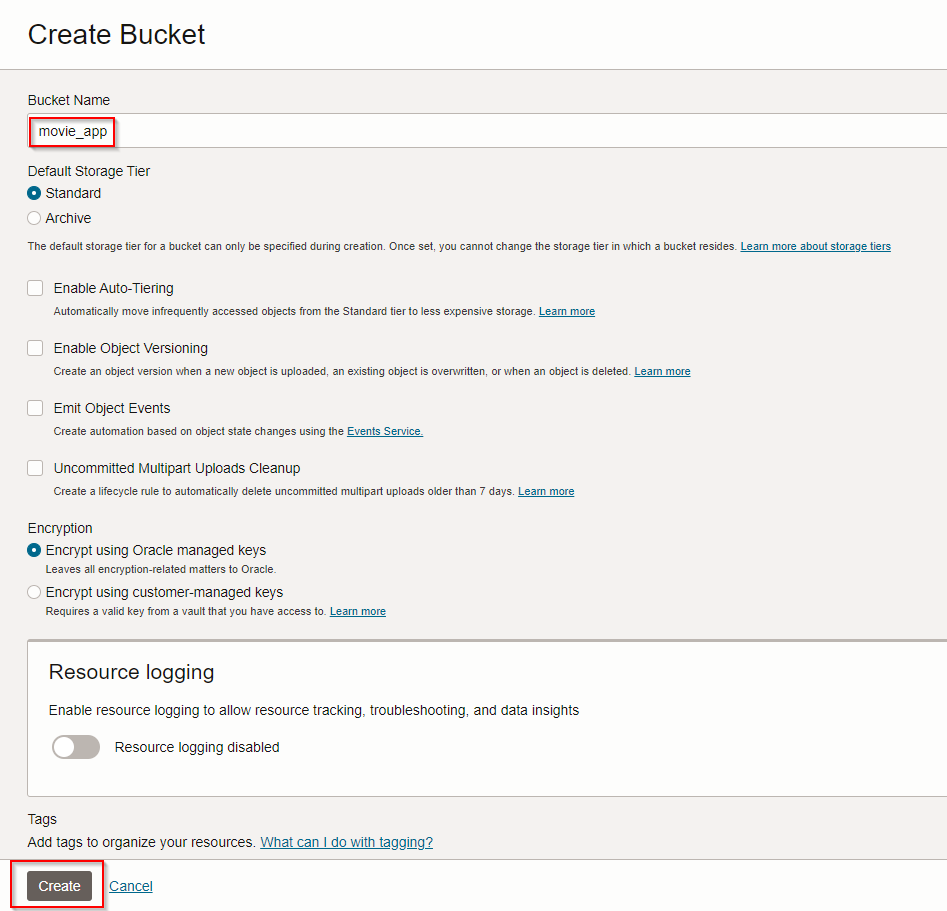
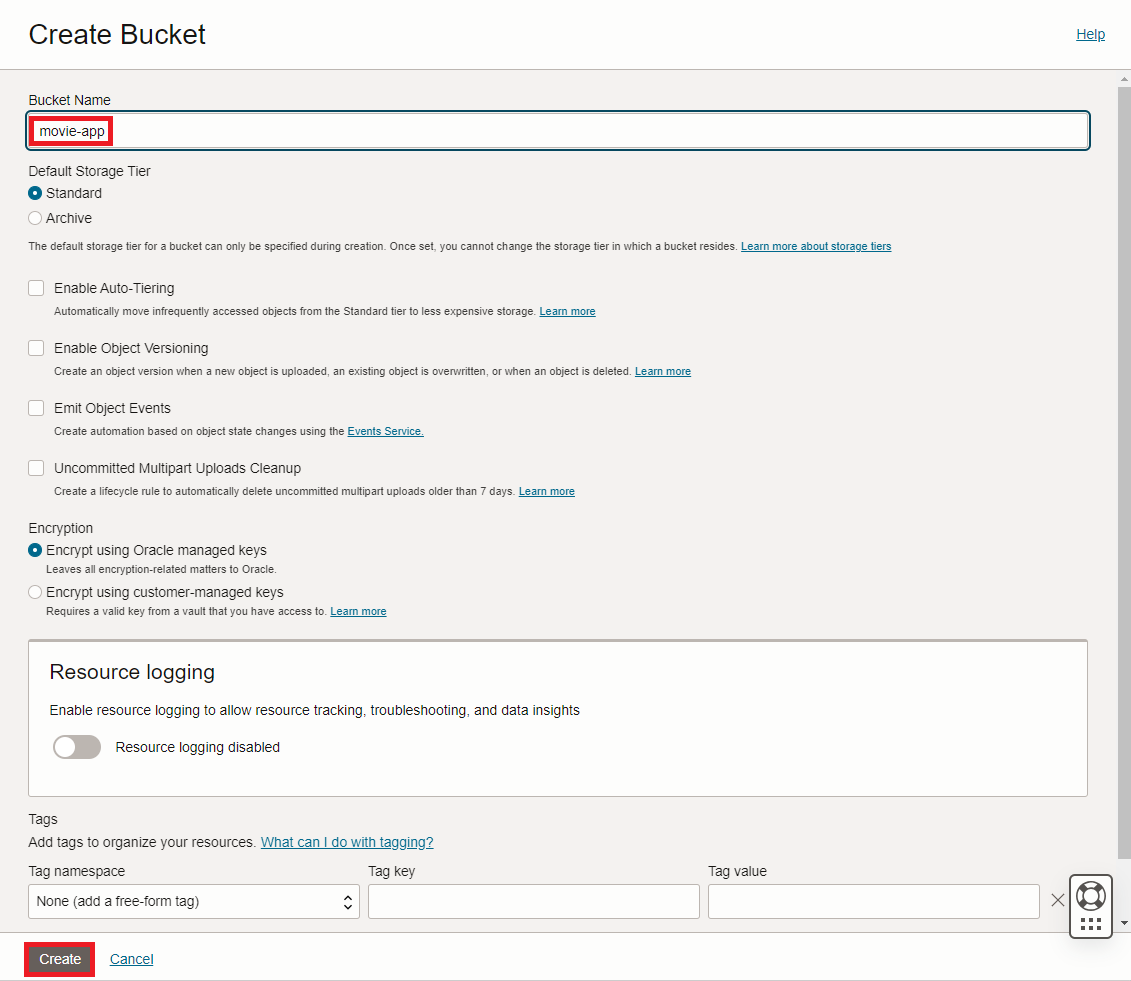
updates

Changed region(s): [[0.0, 0.0615, 1.0, 1.0], [0.0306, 0.0307, 0.2144, 0.0615], [0.9493, 0.0307, 0.9799, 0.0615]]

diff --git a/shared/adb-ai-web-app/deliver-nl-app/deliver-nl-app.md b/shared/adb-ai-web-app/deliver-nl-app/deliver-nl-app.md
@@ -11,18 +11,18 @@ Estimated Time: 20 minutes.
 In this lab, you will:
 * As the `ADMIN` user, enable users to connect to the LLM REST endpoint
 * Grant users privileges to use the **Select AI** APIs
-* Test app
+* Test the app
 
 ### Prerequisites
-- This lab requires the completion of **Lab 1: Set up Your Workshop Environment** in the **Contents** menu on the left.
+- This lab requires the completion of all the preceding labs. 
 
 ## Task 1: Create bucket to host application
 
-1. Naviagte to **Buckets** using the hamburger menu (storage -> buckets)
+1. Navigate to **Buckets** using the hamburger menu (storage -> buckets)
 
 2. Click **Create Bucket** 
 
-3. Name the bucket, **movie_app** and click **create.** Leave all other fields as default. 
+3. Name the bucket, **movie-app** and click **Create.** Leave all other fields as default. 
 
 ![Create bucket](./images/create-bucket.png "")
 
@@ -70,9 +70,11 @@ This script does all the deployment in a few simple commands. First, the src fil
 
 ## Task 3: Test app and compare code
 
-The webpage is stored in object storage as a light weight deployment. The script from the previous command used a shell script in the deployment that uses a renaming convention to modify the index.html file to read the objects stored in the directory.
+The web page is hosted in object storage as a light-weight deployment. The script from the previous command **npm run deploy** used a renaming convention to modify the index.html file. This allows the index.html to read the files in the object storage. 
 
-1. Navigate to bucket and click the ellipses foir the index. Click on object details. 
+1. Navigate back to **movie-app** bucket and click the ellipsis for the **index.html** object. Click on object details. 
+
+![Open object details for index.html](./images/index-details.png "")
 
 2. Grab the URL and paste into browser. 
 
@@ -146,6 +148,7 @@ You may now proceed to the next lab.
     * Olivia Maxwell, Cloud Engineer 
     * Taylor Rees, Cloud Engineer 
     * Joanna Espinosa, Cloud Engineer 
+    * Lauran K. Serhal, Consulting User Assistance Developer
 * **Last Updated By/Date:** Nicholas Cusato, February 2024
 
 Data about movies in this workshop were sourced from **Wikipedia**.
